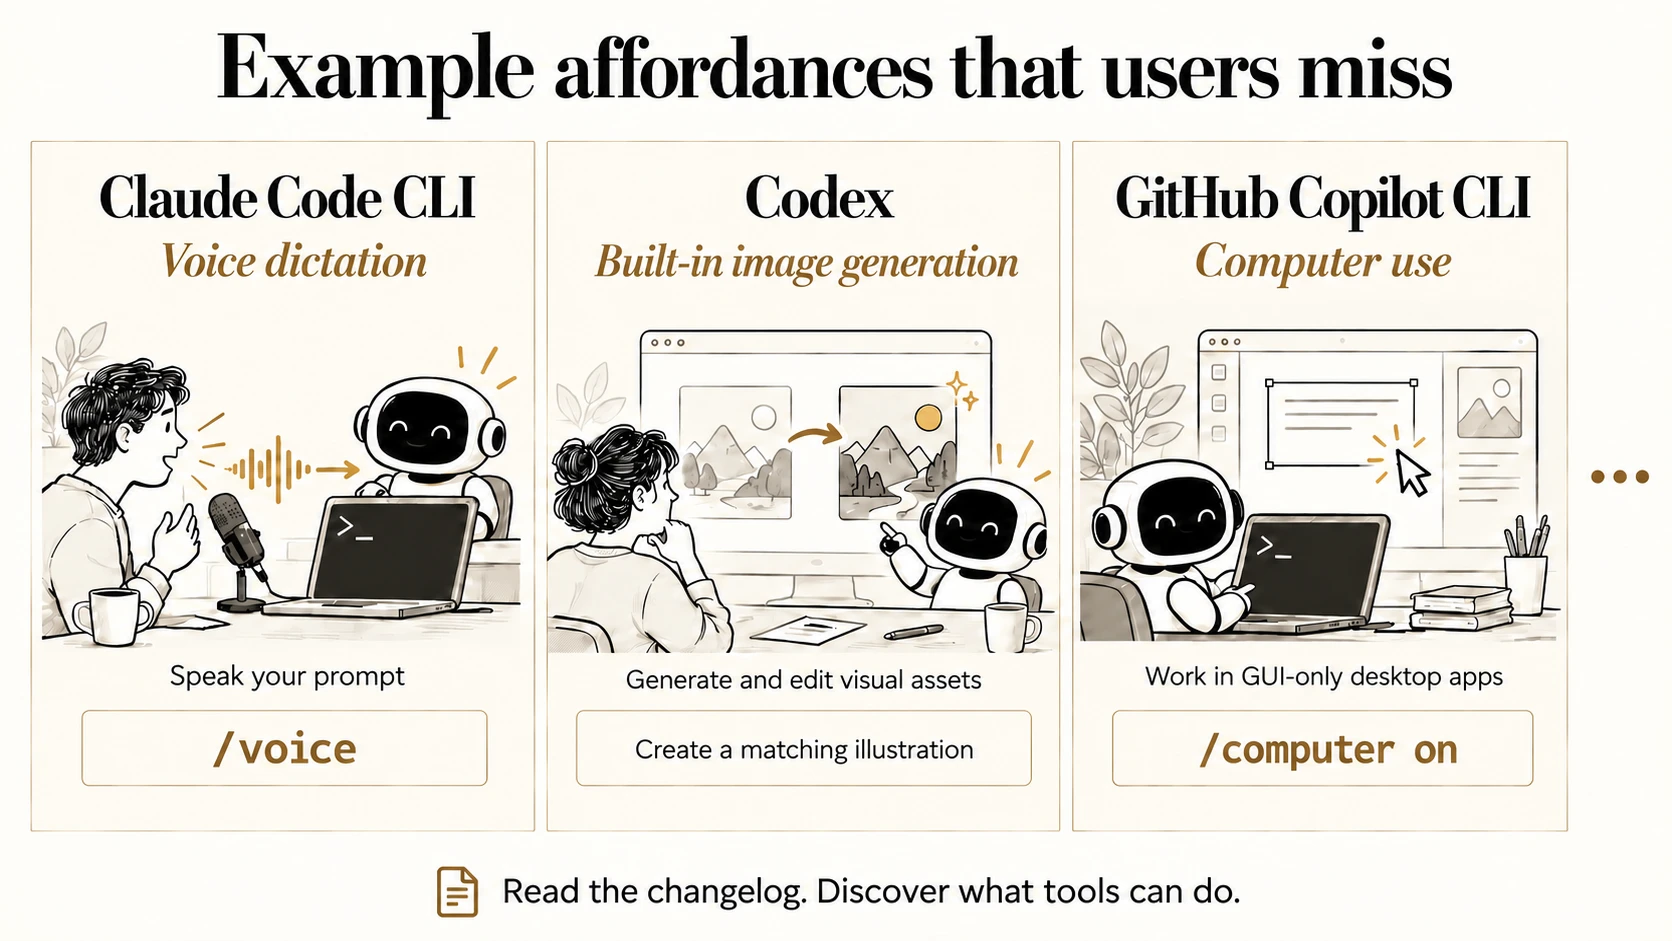
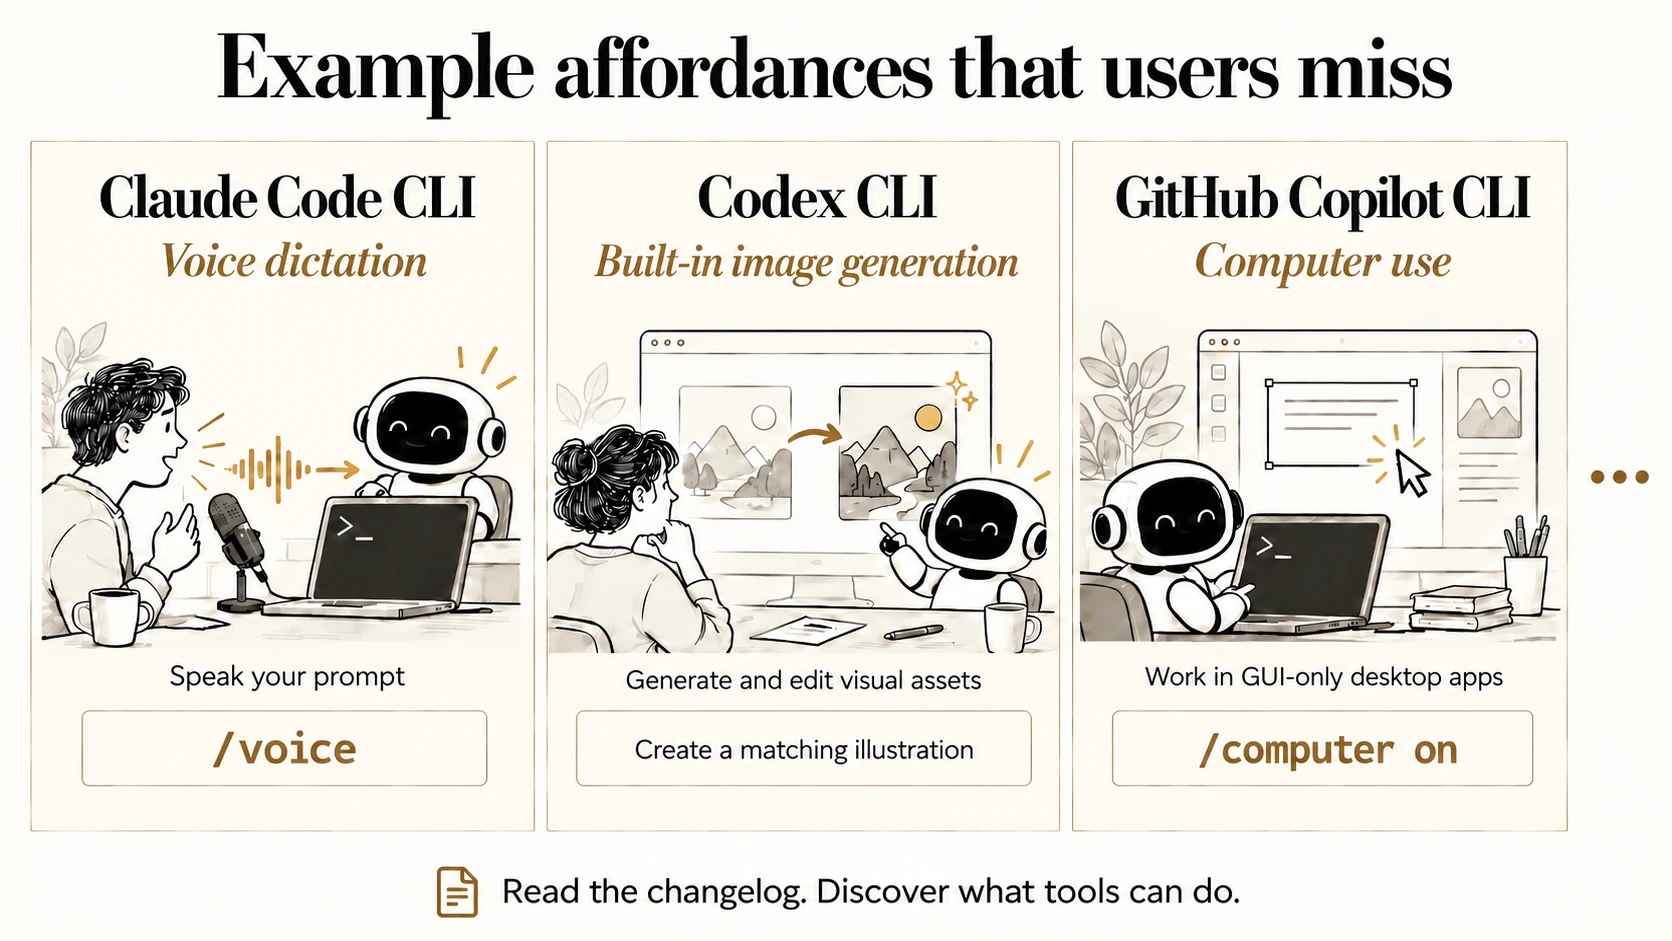
style(deck): use Codex CLI labels

diff --git a/media/README.md b/media/README.md
@@ -194,7 +194,7 @@ No vendor logos necessary; use original editorial icons. All text verbatim and s
 | Variant | Vendor-specific labels |
 | --- | --- |
 | Anthropic | Claude Desktop; Harness · Claude Code CLI; LLM · Claude; Model provider · Anthropic; Model API |
-| OpenAI | ChatGPT desktop; Harness · Codex; LLM · GPT; Model provider · OpenAI; Model API |
+| OpenAI | ChatGPT desktop; Harness · Codex CLI; LLM · GPT; Model provider · OpenAI; Model API |
 | GitHub Copilot | GitHub Copilot App; Harness · GitHub Copilot CLI; LLM · Claude; Model developer · Anthropic, Access via GitHub Copilot; Model access via Copilot |
 
 The desktop-app panel names the application only. Do not add secondary
@@ -205,7 +205,7 @@ The Copilot example deliberately uses Claude: selecting an Anthropic model
 does not switch the Copilot harness to Claude Code CLI. Sources are the official
 [Claude Code architecture](https://code.claude.com/docs/en/how-claude-code-works),
 [Claude Desktop](https://code.claude.com/docs/en/desktop),
-[Codex harness](https://developers.openai.com/blog/codex-as-a-platform),
+[Codex CLI](https://developers.openai.com/blog/codex-as-a-platform),
 [ChatGPT desktop](https://learn.chatgpt.com/docs/app), and
 [GitHub Copilot App](https://docs.github.com/en/copilot/concepts/copilot-surfaces/github-copilot-app)
 documentation.
@@ -364,7 +364,7 @@ Created with built-in image generation. The Maintain session hygiene illustratio
 and social card were supplied as style references, not edit targets.
 Official docs and release notes were checked on 8 October 2026:
 [Claude Code voice dictation](https://code.claude.com/docs/en/voice-dictation),
-[Codex image generation](https://learn.chatgpt.com/docs/image-generation), and
+[Codex CLI image generation](https://learn.chatgpt.com/docs/image-generation), and
 [Copilot CLI computer use](https://docs.github.com/en/copilot/how-tos/copilot-cli/use-copilot-cli/computer-use).
 The [1 October release note](https://github.blog/changelog/2026-10-01-github-copilot-can-now-interact-with-desktop-apps/)
 confirms Copilot computer use is in public preview. These are illustrative
@@ -374,7 +374,7 @@ examples, not an exhaustive or exclusive feature comparison.
 Use case: productivity-visual.
 Asset type: landscape 16:9 illustration for the "Know thy tools" slide in an engineering presentation.
 Input images: `devex-agentex.webp`, `one-command-setup.webp`, and `session-hygiene.webp` are style references only; the social card is an optional typography and palette reference. Create NEW content, do not reproduce their wording or subjects.
-Primary request: an elegant, memorable illustration of three example tool affordances users miss: Claude Code voice dictation, Codex built-in image generation, and GitHub Copilot CLI computer use. Exactly one capability per product, plus an ellipsis suggesting more to discover. Illustrate meaningful actions, not a feature table.
+Primary request: an elegant, memorable illustration of three example tool affordances users miss: Claude Code CLI voice dictation, Codex CLI built-in image generation, and GitHub Copilot CLI computer use. Exactly one capability per product, plus an ellipsis suggesting more to discover. Illustrate meaningful actions, not a feature table.
 
 Style: refined pen-and-ink editorial illustration. Flat ivory #fdfaf3 canvas, warm stone #e9e5db square panels, near-black #141414 text and linework. Restrained gold #dac284 for thin borders and dividers only, dark brown #7d6020 for readable occasional emphasis text. Bodoni/Didot high-contrast serif headings and Montserrat-like sans-serif body. Spacious layout with square corners. Friendly small robot consistent with the supplied style references. No official product logos, bright colours, gradients, glossy 3D, tiny paragraphs, or watermarks.
 
@@ -389,7 +389,7 @@ Large, clear terminal command exactly "/voice".
 Small legible scope note exactly "Claude.ai sign-in + local microphone".
 
 CENTRE:
-Product name exactly "Codex".
+Product name exactly "Codex CLI".
 Small scope label exactly "Desktop app".
 Feature headline exactly "Built-in image generation".
 Show a robot and human reviewing two editorial illustration thumbnails in an app window, with a sketched revision arrow and one thumbnail transformed. The thumbnails should be abstract image assets, not extra products or additional feature examples.
@@ -425,8 +425,8 @@ Use case: precise-object-edit.
 Edit this presentation illustration with exactly three changes:
 1. Remove the small line "Claude.ai sign-in + local microphone" beneath /voice in the left panel; leave clean matching ivory space.
 2. Remove the small line "Public preview · macOS / Windows" beneath /computer on in the right panel; leave clean matching ivory space.
-3. Remove the small "Desktop app" label and its vertical separator to the right of "Codex" in the centre panel. Centre the word "Codex" above "Built-in image generation".
-Keep every other element unchanged: the title "Example affordances that users miss", the three product names ("Claude Code CLI", "Codex", and "GitHub Copilot CLI") and capabilities, all illustration scenes, captions, /voice, /computer on, centre example prompt, ellipsis, unboxed footer caption, panel geometry, canvas dimensions, ivory/stone palette, fine gold borders, typography, and friendly line art. Do not replace the removed labels with new text or caveats.
+3. Remove the small "Desktop app" label and its vertical separator to the right of "Codex CLI" in the centre panel. Centre the words "Codex CLI" above "Built-in image generation".
+Keep every other element unchanged: the title "Example affordances that users miss", the three product names ("Claude Code CLI", "Codex CLI", and "GitHub Copilot CLI") and capabilities, all illustration scenes, captions, /voice, /computer on, centre example prompt, ellipsis, unboxed footer caption, panel geometry, canvas dimensions, ivory/stone palette, fine gold borders, typography, and friendly line art. Do not replace the removed labels with new text or caveats.
 ```
 
 ### know-thy-tools alignment
@@ -438,7 +438,7 @@ Use case: precise-object-edit.
 Edit this existing presentation illustration only for alignment and column heading sizes.
 For EACH of the three bordered columns, align all contents to that column's horizontal centre: product name, feature subtitle, illustration scene as a whole, caption, and command/example box. In the centre column, centre "Create a matching illustration" within its box; remove the small decorative sparkle in that box if it interferes with centred text.
 Reduce all three product-name titles and all three feature subtitles to about 85 percent of their present font sizes. Use one consistent product-name size across all columns, and one consistent feature-subtitle size across all columns. Keep their elegant serif styles and upright versus italic distinction. Put all product names on the same baseline and all feature subtitles on the same baseline; "GitHub Copilot CLI" and "Built-in image generation" should fit comfortably on one line at the smaller size. Maintain generous side margins and consistent spacing. Align the three captions to one baseline and the three command/example boxes to one baseline.
-Keep the top main title exactly "Example affordances that users miss" at its current size and position. Preserve all wording verbatim: "Claude Code CLI", "Voice dictation", "Speak your prompt", "/voice"; "Codex", "Built-in image generation", "Generate and edit visual assets", "Create a matching illustration"; "GitHub Copilot CLI", "Computer use", "Work in GUI-only desktop apps", "/computer on". Preserve the three illustration narratives, friendly robots and humans, ellipsis outside the panels, unboxed footer caption, canvas dimensions, ivory/stone palette, and fine gold borders. Do not add availability caveats, a Desktop app label, logos, dates, or new text. Change only horizontal alignment, consistent vertical alignment, and the requested column heading sizes.
+Keep the top main title exactly "Example affordances that users miss" at its current size and position. Preserve all wording verbatim: "Claude Code CLI", "Voice dictation", "Speak your prompt", "/voice"; "Codex CLI", "Built-in image generation", "Generate and edit visual assets", "Create a matching illustration"; "GitHub Copilot CLI", "Computer use", "Work in GUI-only desktop apps", "/computer on". Preserve the three illustration narratives, friendly robots and humans, ellipsis outside the panels, unboxed footer caption, canvas dimensions, ivory/stone palette, and fine gold borders. Do not add availability caveats, a Desktop app label, logos, dates, or new text. Change only horizontal alignment, consistent vertical alignment, and the requested column heading sizes.
 ```
 
 ## Integration checks
